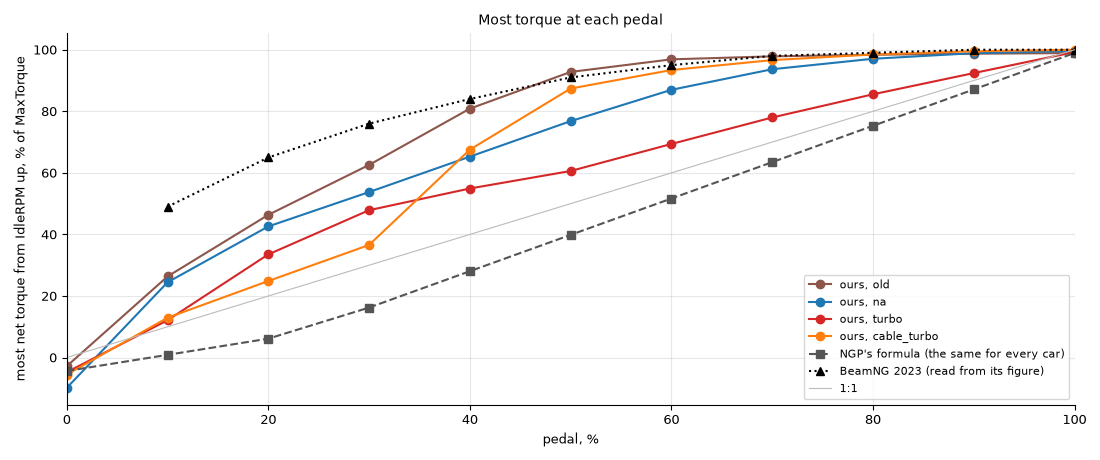
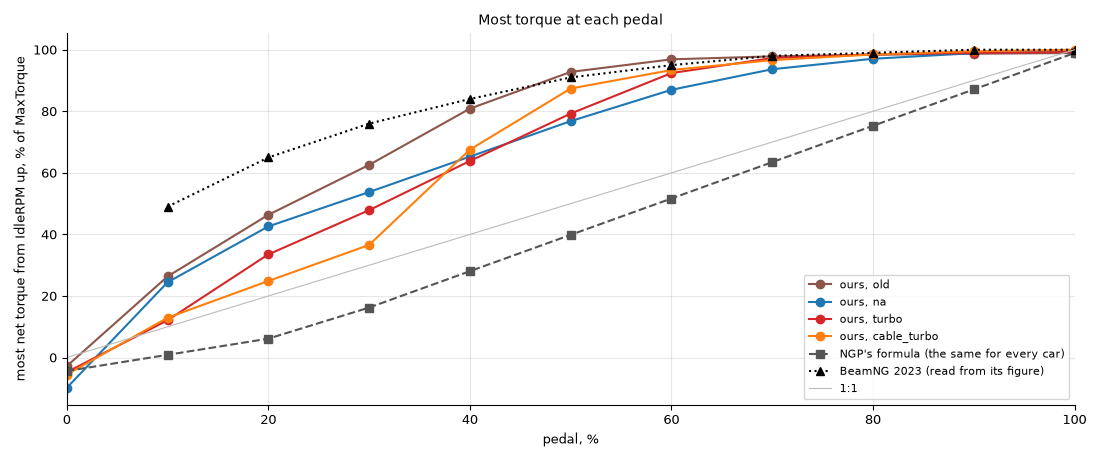
rbr-engine: electronic gate reaches full aim where the plate stops controlling the air

diff --git a/crates/rbr-engine/src/calibrate.rs b/crates/rbr-engine/src/calibrate.rs
@@ -5,7 +5,7 @@ use crate::class::{self, Actuation, Class, Idle};
 use crate::curve::Curve;
 use crate::ecu;
 use crate::engine::{self, Out, Spec, State, Step, ETA_V_TURBO, RPM, V_BOOST};
-use crate::gas::{AFR, LAMBDA, LHV, PSI_CHOKED, P_REF, R, T_REF};
+use crate::gas::{self, AFR, LAMBDA, LHV, PSI_CHOKED, P_REF, R, T_REF};
 use crate::turbo;
 use crate::Params;
 use libm::{exp, log};
@@ -311,6 +311,7 @@ fn turbo_spec(spec: &Spec, car: &Car) -> turbo::Spec {
         a_turbine: 1e-3,
         a_wastegate: 1e-3,
         gate_base: Curve::default(),
+        aim_open: Curve::default(),
         a_bov: turbo::Spec::bov_area(v_boost, pi_max),
         w_choke,
         v_boost,
@@ -540,6 +541,10 @@ pub fn calibrate(params: &Params) -> (Spec, Calibration) {
         spec.k = identity(&car, &runs);
         held = hold_off_boost(&mut spec, &car, &runs);
     }
+    if spec.class.actuation == Actuation::Dbw && spec.turbo.is_some() {
+        let open = aim_open(&spec, &car, &runs);
+        spec.turbo.as_mut().unwrap().aim_open = open;
+    }
 
     // The report.
     cal.friction_scale = spec.friction_scale;
@@ -570,6 +575,23 @@ pub fn calibrate(params: &Params) -> (Spec, Calibration) {
     }
     cal.held = parallel(&held, |&(rpm, t)| (rpm, t, bare_wot(&spec, rpm).1.torque));
     (spec, cal)
+}
+
+/// The throttle position at each grid point where the plate stops controlling the air: at the steady WOT boost and
+/// cylinder flow, the lift whose area passes that flow at p_im/p_b = `AIM_OPEN_RATIO` (inferred: race ECUs' boost
+/// aim tables reach full aim before full throttle; this places that point where the plate stops limiting).
+fn aim_open(spec: &Spec, car: &Car, runs: &[(State, Out)]) -> Curve {
+    Curve(
+        car.grid
+            .iter()
+            .zip(runs)
+            .map(|(g, (s, out))| {
+                let unit = gas::orifice(spec.cda, s.p_boost, turbo::AIM_OPEN_RATIO * s.p_boost, s.t_im);
+                let area = if unit > 0.0 { out.w_cyl / unit - spec.leak } else { 1.0 };
+                (g.0, gas::plate_lift(area).max(0.05))
+            })
+            .collect(),
+    )
 }
 
 /// A turbo's K where its steady WOT boost misses the target (the turbo cannot make that boost at that speed) is held

diff --git a/crates/rbr-engine/src/engine.rs b/crates/rbr-engine/src/engine.rs
@@ -404,14 +404,16 @@ pub fn step(spec: &Spec, s: &mut State, x: &Step) -> Out {
         };
         let t_ss = (t.t_em0 + t.t_em_k * w_exhaust + unburnt).min(turbo::T_EM_MAX);
         s.t_em += (t_ss - s.t_em) * (1.0 - exp(-dt / turbo::TAU_EXHAUST));
-        // The electronic gate's aim rises linearly with the throttle's aim position to the WOT boost, as race ECUs'
-        // boost aim tables over rpm and throttle (shape inferred; the aim, not the plate, so a re-apply after anti-lag
+        // The electronic gate's aim rises linearly with the throttle's aim position to the WOT boost at the position
+        // where the plate stops controlling the air (`aim_open`), as race ECUs' boost aim tables over rpm and throttle
+        // reach full aim before full throttle (shape inferred; the aim, not the plate, so a re-apply after anti-lag
         // does not dump the boost while the plate opens); a spring gate aims at the WOT boost whatever the pedal.
         let wot = t.pi_wot.at(rpm) * x.p_a;
         let aim = if anti_lag {
             x.p_a + ecu::ALS_BOOST
         } else if spec.class.actuation == Actuation::Dbw {
-            x.p_a + (wot - x.p_a) * target
+            let open = t.aim_open.at(rpm);
+            x.p_a + (wot - x.p_a) * if open > 0.0 { (target / open).min(1.0) } else { target }
         } else {
             wot
         };

diff --git a/crates/rbr-engine/src/turbo.rs b/crates/rbr-engine/src/turbo.rs
@@ -46,6 +46,8 @@ pub const WASTEGATE_BAND: f64 = 1.0e5;
 pub const WASTEGATE_TI: f64 = 0.5;
 pub const WASTEGATE_TD: f64 = 0.08;
 pub const SPRING_BAND: f64 = 0.5e5;
+/// The plate's pressure ratio p_im/p_b where it stops controlling the air (inferred).
+pub const AIM_OPEN_RATIO: f64 = 0.95;
 /// The blow-off valve opens over 0.3–0.4 bar across the throttle and empties the boost pipe in about 0.1 s (inferred).
 pub const BOV_OPEN: f64 = 0.3e5;
 pub const BOV_FULL: f64 = 0.4e5;
@@ -66,6 +68,9 @@ pub struct Spec {
     pub a_wastegate: f64,
     /// The electronic wastegate's base opening over rpm (its steady WOT opening; empty for a spring gate).
     pub gate_base: Curve,
+    /// The electronic gate's full-aim throttle position over rpm: where the plate, at the steady WOT boost and flow,
+    /// holds the manifold at `AIM_OPEN_RATIO` of the boost (empty for a spring gate).
+    pub aim_open: Curve,
     /// The blow-off valve's area, m².
     pub a_bov: f64,
     /// The restrictor's choked flow at the reference air, kg/s (infinite without one).

diff --git a/crates/rbr-engine/tests/model.rs b/crates/rbr-engine/tests/model.rs
@@ -190,6 +190,24 @@ fn a_dbw_turbo_tip_in_barely_overshoots() {
     }
 }
 
+/// The most net torque over rpm (from idle to the limiter) rises with the pedal on every sample.
+#[test]
+fn the_most_torque_rises_with_the_pedal() {
+    for (name, p, m) in models() {
+        let from = (rpm(p.idle_speed) / 250.0).ceil() * 250.0;
+        let to = rpm(p.rev_limit) - rbr_engine::ecu::LIMITER_RANGE;
+        let most = |pedal: f64| {
+            (0..)
+                .map(|i| from + 250.0 * f64::from(i))
+                .take_while(|&n| n <= to)
+                .map(|n| calibrate::part(m.spec(), n, pedal).1.torque)
+                .fold(f64::MIN, f64::max)
+        };
+        let row: Vec<f64> = (0..=10).map(|k| most(f64::from(k) / 10.0)).collect();
+        assert!(row.windows(2).all(|w| w[1] > w[0]), "{name}: {row:.1?}");
+    }
+}
+
 /// Seconds at a fixed `n` rpm from the steady pedal that gives 5 bar BMEP until 90 % of the steady WOT torque.
 fn spool_at(m: &Realistic, n: f64) -> f64 {
     use rbr_engine::engine::{step, Step};

diff --git a/notes/engine-model.md b/notes/engine-model.md
@@ -61,7 +61,7 @@ the doc comments. Each line gives its evidence: a source (list at the end), or "
 - The idle air adds to the aim; anti-lag's kick overrides it [MoTeC DBW]. Blips and shift cuts come through the
   interface's throttle (NGP's control unit).
 - Part throttle follows WOT to an rpm then falls at roughly constant power, as BeamNG's model [BeamNG throttle].
-  Peak net torque at pedal 10/20/30/50 %: na 24/43/54/77 %, turbo 12/34/48/61 %, old 26/46/63/93 %, cable_turbo
+  Peak net torque at pedal 10/20/30/50 %: na 24/43/54/77 %, turbo 12/34/48/79 %, old 26/46/63/93 %, cable_turbo
   13/25/37/87 % of max (BeamNG 2023: 49/65/76/91 %).
 
 ## Torque (`calibrate.rs`, `ecu.rs`)
@@ -160,9 +160,13 @@ the doc comments. Each line gives its evidence: a source (list at the end), or "
   Intercooler effectiveness 0.7 (guess).
 - Boost target π_wot(n), first from the table with η_ig 0.38, η_v 0.95, capped (class, else 2.5 abs) and by the
   restrictor [FIA 261], [FIA 255A], then made consistent with one K (above).
-- Wastegate aim. Electronic (DBW): p_a + (π_wot(n)·p_a − p_a)·θ, θ the throttle's aim position, as race ECUs' boost
-  aim tables over rpm × throttle [HPA M1 boost], [HPA Link boost] (linear shape inferred; the aim position rather
-  than the plate, so a re-apply after anti-lag does not dump the boost while the plate opens). Spring (cable):
+- Wastegate aim. Electronic (DBW): p_a + (π_wot(n)·p_a − p_a)·min(1, θ/θ_open(n)), θ the throttle's aim position,
+  as race ECUs' boost aim tables over rpm × throttle [HPA M1 boost], [HPA Link boost] (inferred: those tables reach
+  full aim before full throttle; we place that point where the plate stops limiting). θ_open(n): at calibration, the
+  lift whose area passes the steady WOT flow at p_im/p_b = 0.95 at that boost (turbo sample 0.24 at 1000 rpm, 0.46
+  at 3000, 0.61 at 5000, 0.74 at 7000). Linear in θ below it (inferred). The aim position rather than the plate, so
+  a re-apply after anti-lag does not dump the boost while the plate opens. A linear aim to θ = 1 flattened mid
+  pedal (40 % 54, 50 % 60 % of max). Spring (cable):
   π_wot(n)·p_a whatever the pedal, so a cable turbo kicks at part throttle.
 - Electronic gate: a base opening by rpm (the steady WOT one) plus PID, band 1 bar, Ti 0.5 s, Td 0.08 s on the boost
   (not the error), conditional integration (inferred: boost controllers run a base duty table with closed-loop trim).
@@ -173,6 +177,7 @@ the doc comments. Each line gives its evidence: a source (list at the end), or "
   0.79 s, 5000 2.6 % / 0.88 s, 6500 3.9 % / 1.11 s (was 7 % and 17 % with a 0.5 s ring before the derivative).
   cable_turbo (spring): 1.3 % at 3000, 8.0 % at 5000, 13.8 % at 6500. Tested: steady torque at any pedal the same
   within 2 % + 1 N·m from closed or from WOT, every 250 rpm from idle and every 10 % (worst 1.7 %, near zero torque).
+  Tested too: the most torque over rpm (idle to RPMLimit − 200) rises with every 10 % of pedal on every sample.
 - Blow-off: opens at 0.3 bar over the manifold, full at 0.4 bar, empties the pipe in about 0.1 s (guess).
 - Spool, the [Chalmers] case (GT-Power, road 1.5 L four, T45): at a fixed speed from the steady pedal for 5 bar BMEP
   to 90 % of the steady WOT torque, 0.54 s at 1000 rpm (1.0 s on a three, 0.68 s with half the inertia). Tested
@@ -192,7 +197,7 @@ the doc comments. Each line gives its evidence: a source (list at the end), or "
 - At a fixed speed below idle the closed pedal gives up to +166 N·m (turbo sample, 500 rpm; na 65 N·m) with the
   idle air at its 10 % ceiling. In gear at low speed this pushes the car.
 - The spring-gate cable_turbo still overshoots 8–14 % from 5000 rpm up.
-- The turbo sample's part-pedal curves bump at 1500 and dip at 1750 rpm: K steps about 1.6e6 (held, to 1250) → 1.5e6
+- The turbo sample's part-pedal curves bump at 1500 and dip at 1750 rpm (at 30 % pedal a dip at 1750, a peak at 2000): K steps about 1.6e6 (held, to 1250) → 1.5e6
   (1500, off boost but under the median, so kept) → 1.3e6 (1750, on boost). At part pedal the boost is about the
   same at each speed, so torque follows K; at WOT the boost rises about 1.5 → 2.1 bar and covers it.
 - The spark loop saturates (gain about 2°/rpm). The limiter's torque swings each step (mean value per step).
